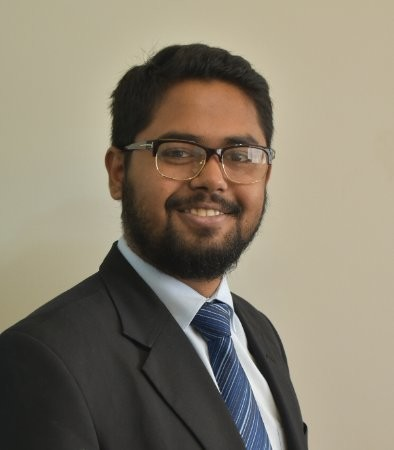
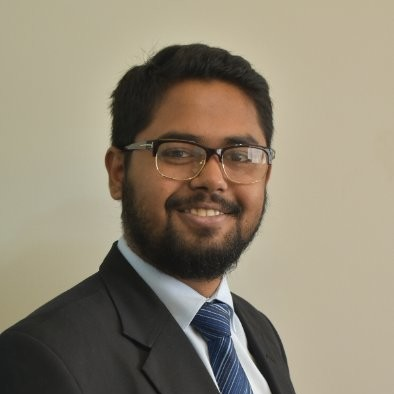
reshaped resume image to be circle, added styling

diff --git a/src/pages/page-css/resume.module.css b/src/pages/page-css/resume.module.css
@@ -1,11 +1,11 @@
 .resume-container {
   display: flex;
-  border: 1px solid red;
+  /* border: 1px solid red; */
   background-color: #4a8b50;
 }
 
 .summary-container {
-  border: 1px solid red;
+  /* border: 1px solid red; */
   background-color: #4a8b50;
   color: white;
   width: 30%;
@@ -13,10 +13,11 @@
 }
 
 .detail-resume-container {
-  border: 1px solid red;
+  /* border: 1px solid red; */
   background-color: white;
   width: 70%;
   min-width: 530px;
+  padding-left: 20px;
 }
 
 .fixed-container {
@@ -31,15 +32,18 @@
 
 .image-container {
   border-radius: 50px;
+  margin-bottom: 20px;
 }
 
 .resume-image {
   border-radius: 50%;
   height: 200px;
+  box-shadow: 0 0 15px 5px #2a612d;
 }
 
 .summary-info-container {
   text-align: center;
+  text-shadow: 0 0 10px black;
 }
 
 .my-name {
